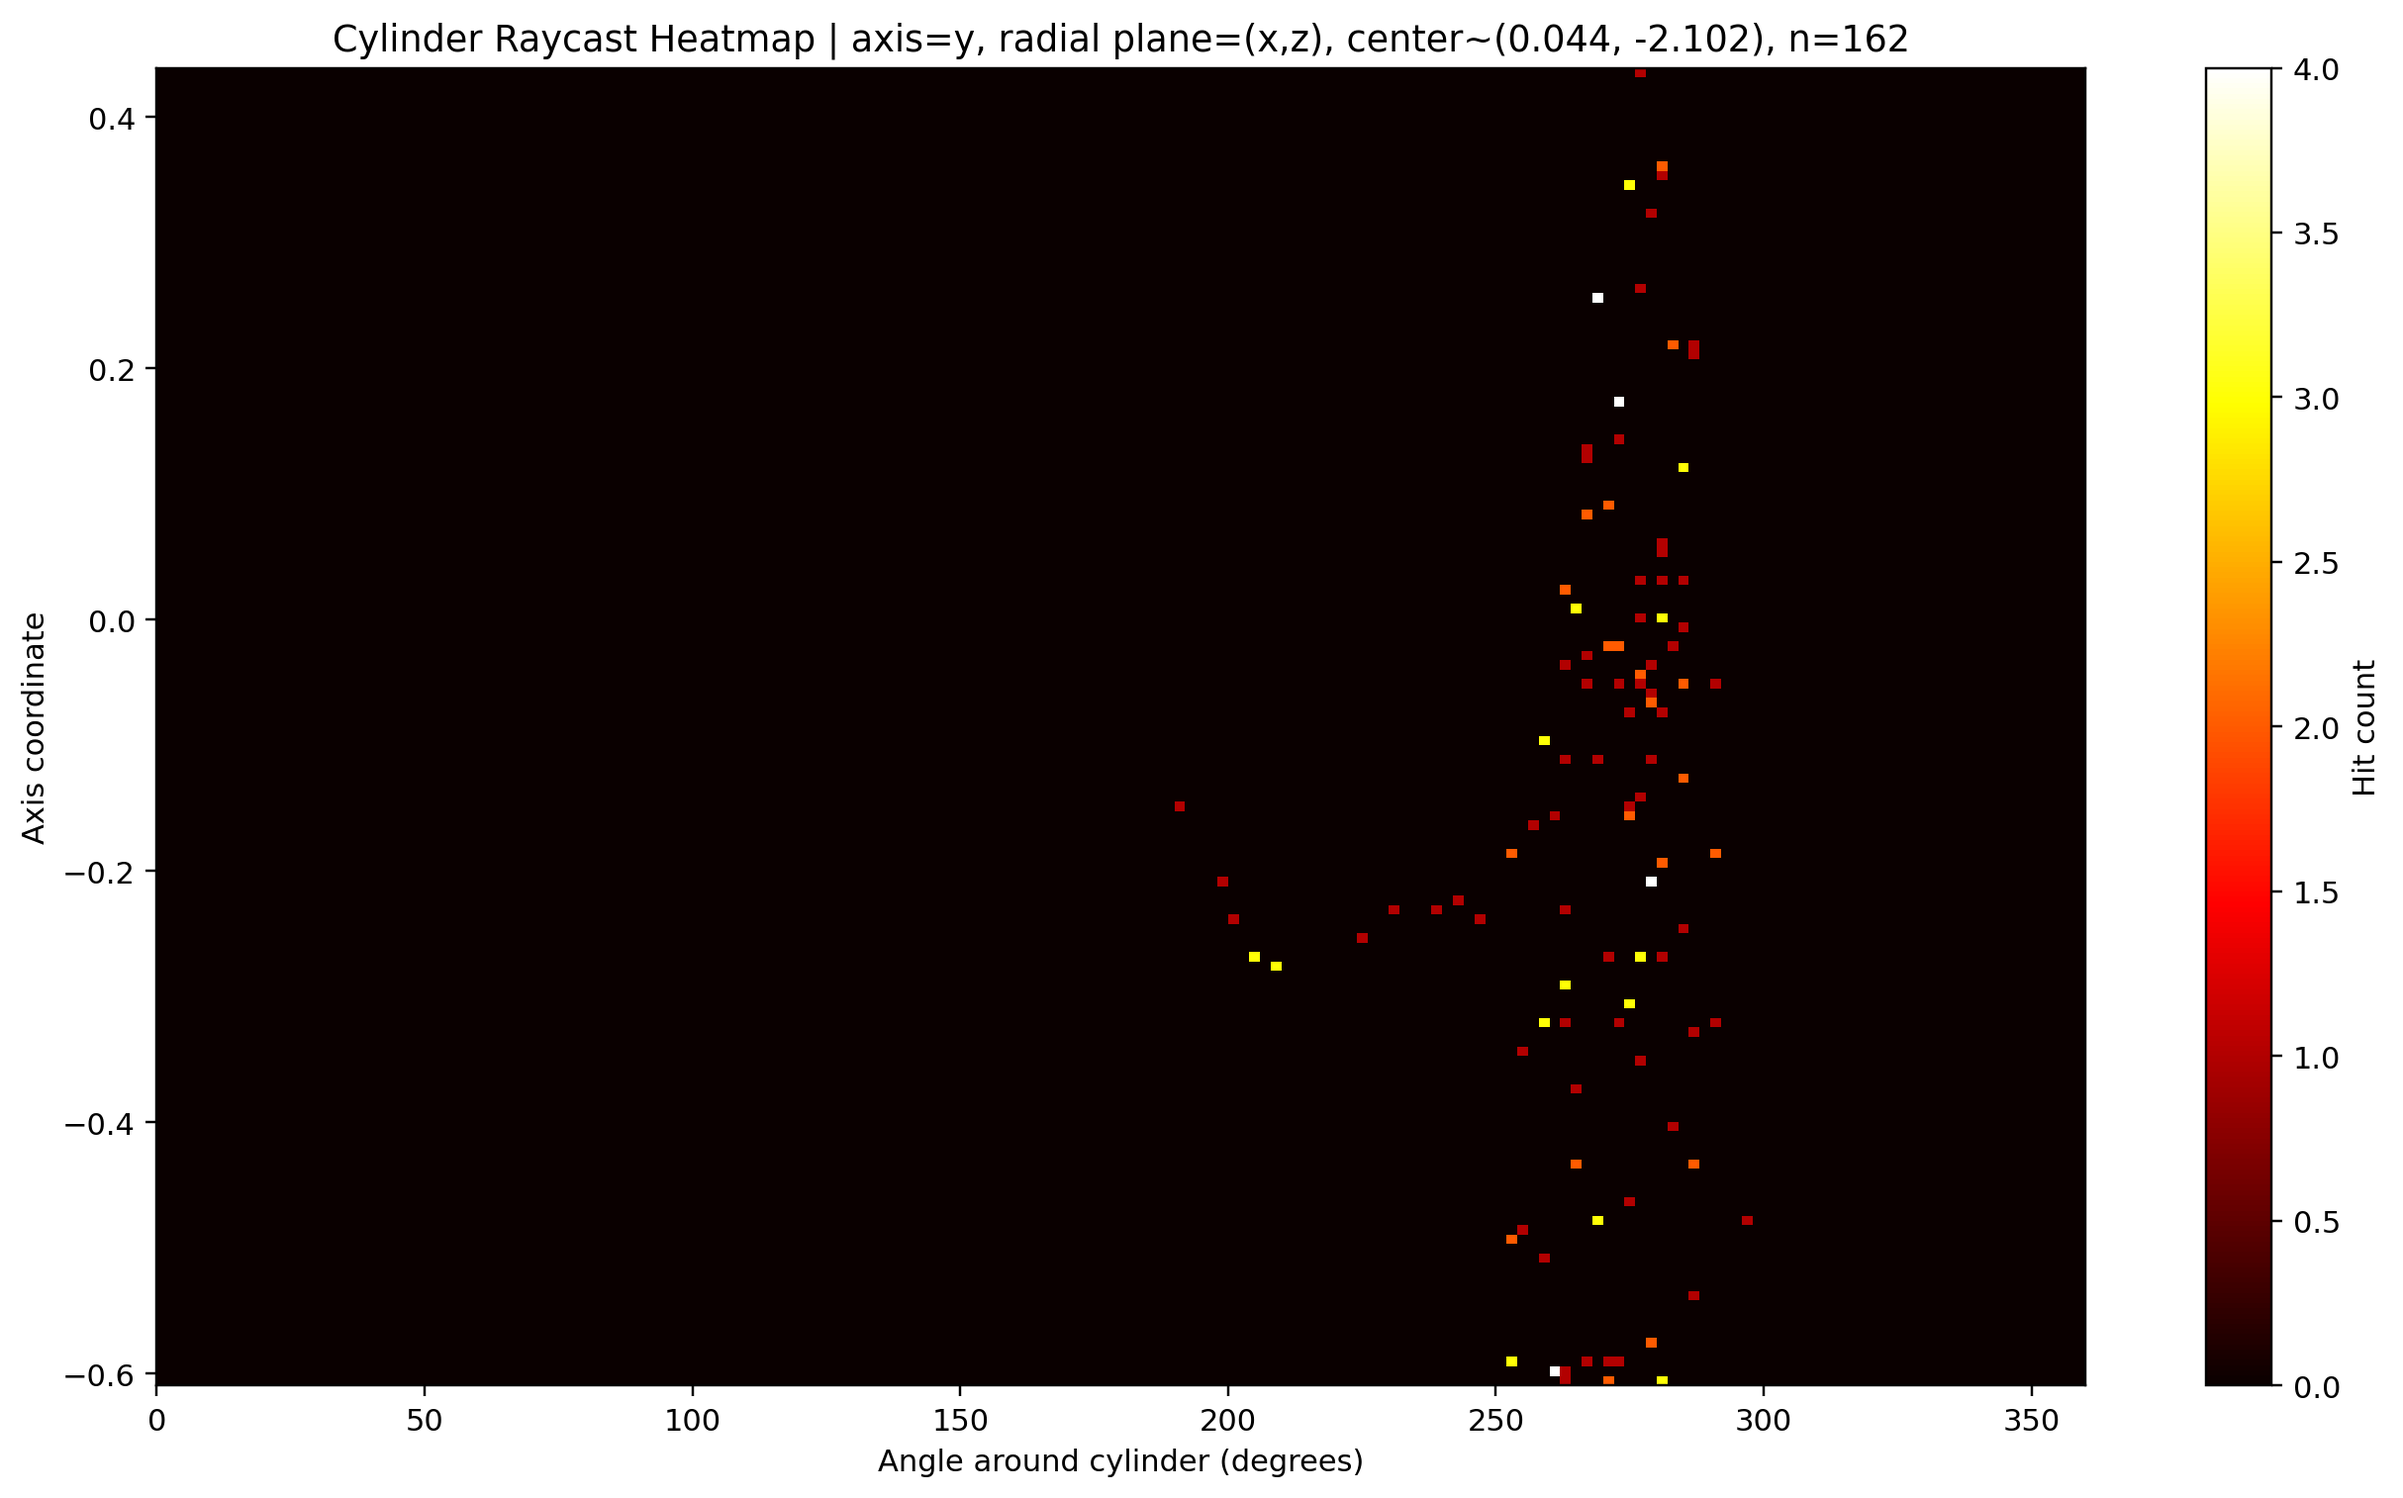
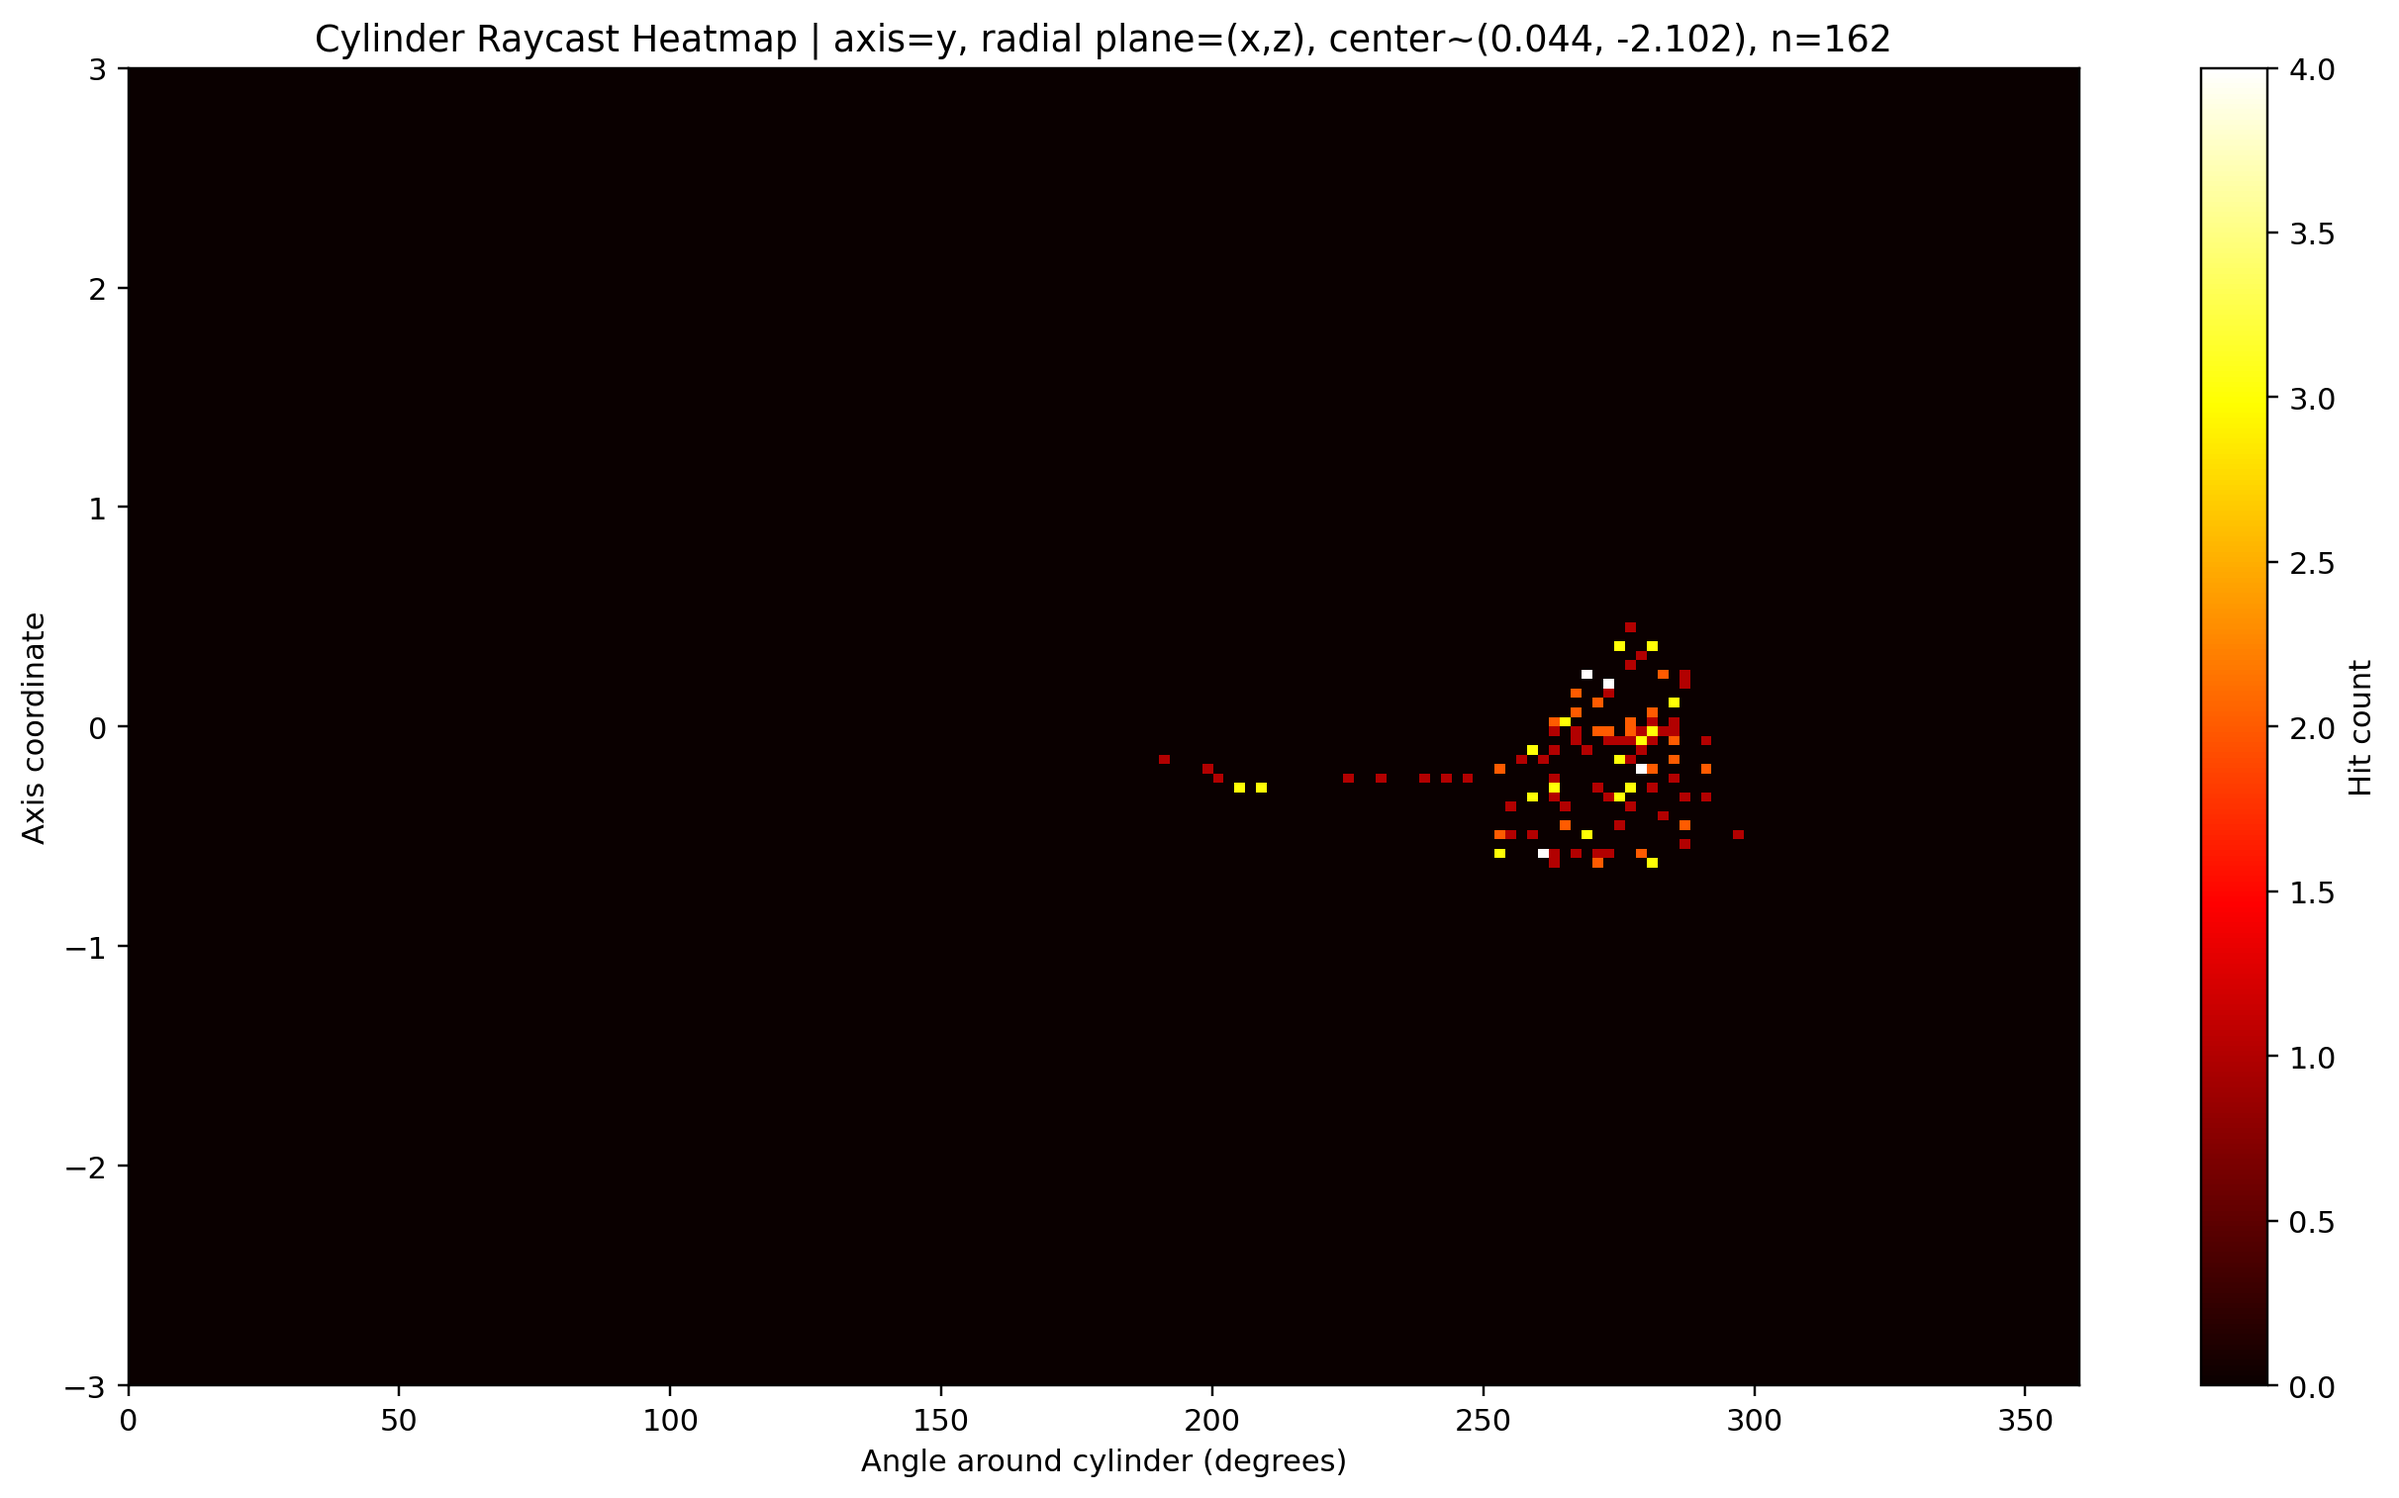
hm

diff --git a/participant_data/cylinder_heatmap.py b/participant_data/cylinder_heatmap.py
@@ -123,10 +123,9 @@ def cylinder_coordinates(
 def build_heatmap(
     theta: np.ndarray, height: np.ndarray, theta_bins: int, height_bins: int
 ) -> tuple[np.ndarray, tuple[float, float, float, float]]:
-    h_min = float(np.min(height))
-    h_max = float(np.max(height))
-    if h_max <= h_min:
-        h_max = h_min + 1e-6
+    # Keep a fixed vertical span and ignore samples outside this interval.
+    h_min = -3.0
+    h_max = 3.0
 
     hist, h_edges, t_edges = np.histogram2d(
         height,
